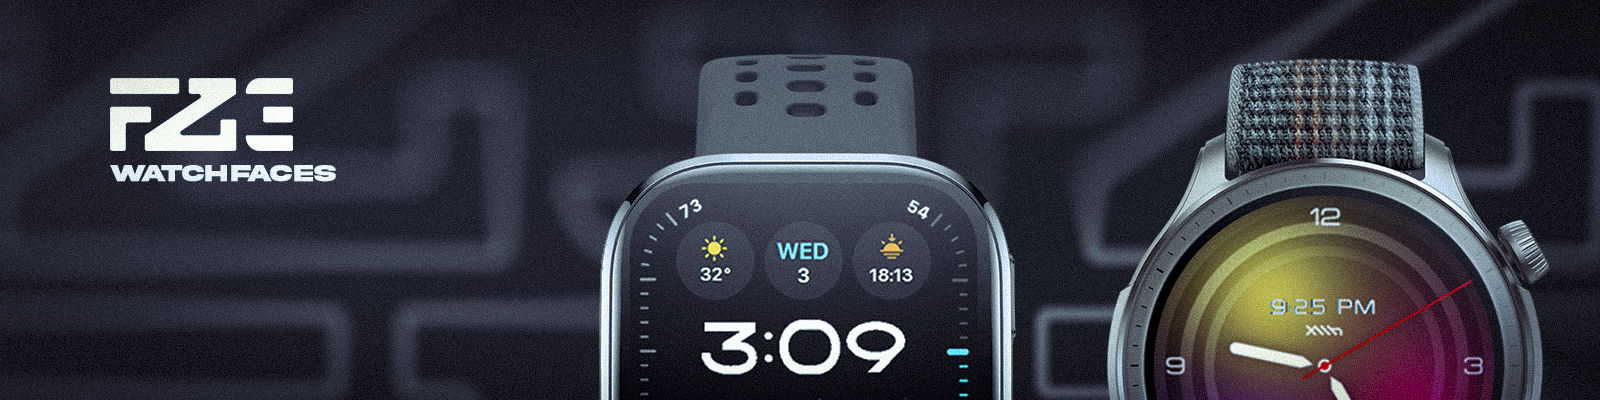
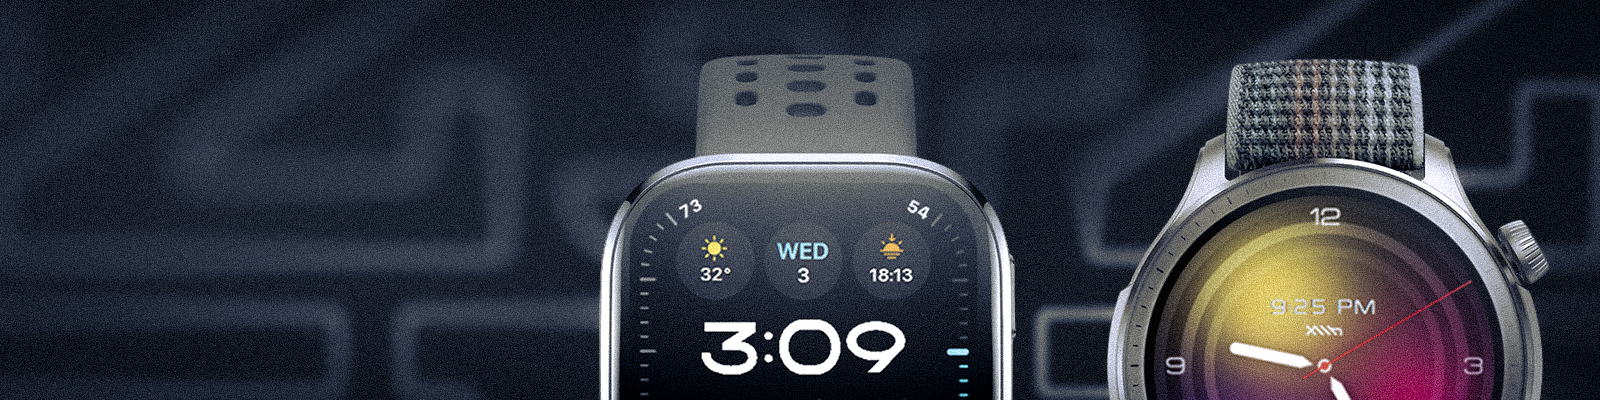
many changes
- updated logo and favicon
- added python script to add new watchfaces to the catalog

Changed region(s): [[0.0, 0.0, 1.0, 1.0]]

diff --git a/docs/addwf2gallery.py b/docs/addwf2gallery.py
@@ -1,0 +1,50 @@
+import os
+
+# Update this path if your gallery.md is inside a specific folder like 'docs/gallery.md'
+FILE_PATH = "gallery.md"
+
+def add_watchface():
+    print("--- Add New Watchface to Gallery ---")
+    name = input("Enter Watchface Name (e.g., Lumira Core): ").strip()
+    url = input("Enter Store URL: ").strip()
+    img = input("Enter Image URL (e.g., Postimg .gif): ").strip()
+
+    if not name or not url or not img:
+        print("Error: All fields are required. Aborting.")
+        return
+
+    # Formats the exact Markdown/HTML block needed
+    new_entry = f"""
+<div style="width: 150px;" markdown="1">
+<a href="{url}" target="_blank">![]({img})</a>
+**{name}**
+</div>
+"""
+
+    if not os.path.exists(FILE_PATH):
+        print(f"Error: Could not find '{FILE_PATH}'. Check the path.")
+        return
+
+    with open(FILE_PATH, 'r', encoding='utf-8') as file:
+        lines = file.readlines()
+
+    # The exact string of your main flex container
+    target_line = '<div style="display: flex; flex-wrap: wrap; justify-content: center; column-gap: 40px; row-gap: 5px; text-align: center;" markdown="1">'
+
+    inserted = False
+    for i, line in enumerate(lines):
+        if target_line in line:
+            # Insert the new block immediately after the container opening tag
+            lines.insert(i + 1, new_entry)
+            inserted = True
+            break
+
+    if inserted:
+        with open(FILE_PATH, 'w', encoding='utf-8') as file:
+            file.writelines(lines)
+        print(f"\nSuccess! '{name}' has been added to the top of your gallery.")
+    else:
+        print("\nError: Could not find the main flex container div in the file. Make sure the HTML hasn't changed.")
+
+if __name__ == "__main__":
+    add_watchface()

diff --git a/docs/index.md b/docs/index.md
@@ -6,22 +6,36 @@ hide:
 
 <style>
     [data-md-color-scheme] .md-typeset h1:first-of-type {
-    display: none;
+        display: none;
     }
     
     .md-content__inner {
         padding-top: 0 !important;
     }
+
+    /* Edge-to-Edge Breakout Class */
+    .edge-to-edge-banner {
+        width: 100vw;
+        margin-left: calc(50% - 50vw);
+        margin-top: -2rem; /* Your original top adjustment */
+        margin-bottom: 0; /* Adds some breathing room before the text */
+    }
+    
+    .edge-to-edge-banner img {
+        width: 100%;
+        display: block;
+        object-fit: cover;
+    }
 </style>
 
-<div style="margin-top: -1.4rem; margin-bottom: 0;">
-  <img src="images/banner.png" alt="FZ3 Watchfaces Banner" style="width: 100%; border-radius: 0.1rem;">
+<div class="edge-to-edge-banner">
+  <img src="images/banner.png" alt="FZ3 Watchfaces Banner">
 </div>
 
 Hi there! I'm Frank _(Also known as FZ3)_
 
 * 📍 **Located** in Mexico
-* ⌚️ **Watchfaces designer** for Amazfit Watches
+* ⌚️ **Watchfaces designer** for Amazfit watches
 * 🎨 **Graphic designer** for The XPerience Project
 * 📱 **Devices I own:** Poco X5 Pro (redwood), OnePlus Nord 5 (lexus), Amazfit Bip 6, Amazfit Active 2 (Round)
 

diff --git a/docs/gallery.md b/docs/gallery.md
@@ -2,6 +2,21 @@
 hide:
   - navigation
 ---
+
+<style>
+    [data-md-color-scheme] .md-typeset h1:first-of-type {
+        display: none;
+    }
+    
+    /* Removes the extra top margin from the title */
+    .md-typeset h2:first-of-type {
+        margin-top: -1rem !important;
+        margin-bottom: 1.2rem !important;
+    }
+</style>
+
+## Some cool watchfaces!
+
 <div style="display: flex; flex-wrap: wrap; justify-content: center; column-gap: 40px; row-gap: 5px; text-align: center;" markdown="1">
 
 <div style="width: 150px;" markdown="1">